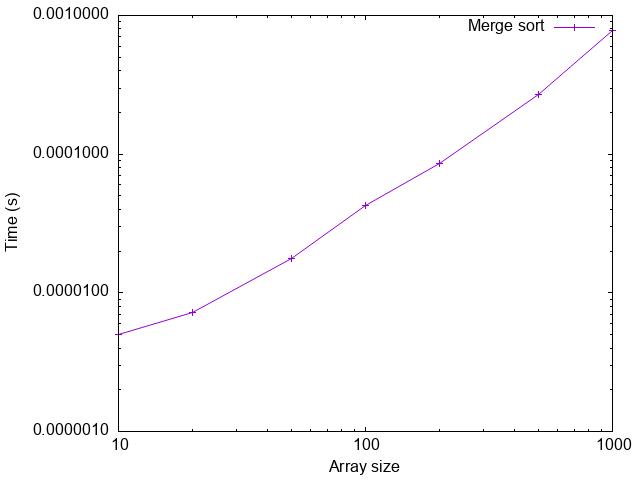
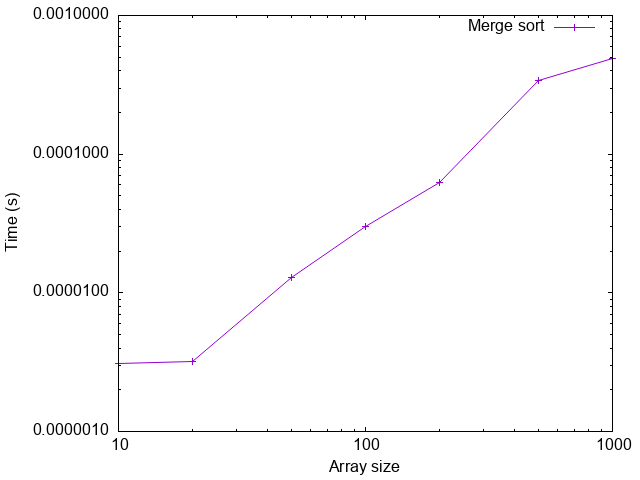
added insertion sort for small N

diff --git a/Students/Poppe/TP1/src/merge_sort.cpp b/Students/Poppe/TP1/src/merge_sort.cpp
@@ -2,6 +2,7 @@
 #include <string>
 
 #include "merge_sort.hpp"
+#include "insertion_sort.hpp"
 
 void merge_sort_old(int* array, size_t size) {
     int* temp = new int[size];
@@ -66,8 +67,13 @@ void merge(int* array, size_t l, size_t l_end, size_t r, size_t r_end, int* outp
     }
 }
 
+const size_t MERGE_SORT_THRESHOLD = 32;
+
 void merge_sort(int* array, size_t size) {
-    if (size <= 1) return;
+    if (size <= MERGE_SORT_THRESHOLD) {
+        insertion_sort(array, size);
+        return;
+    }
     size_t sorted = size;
 
     while (sorted > 1) {
